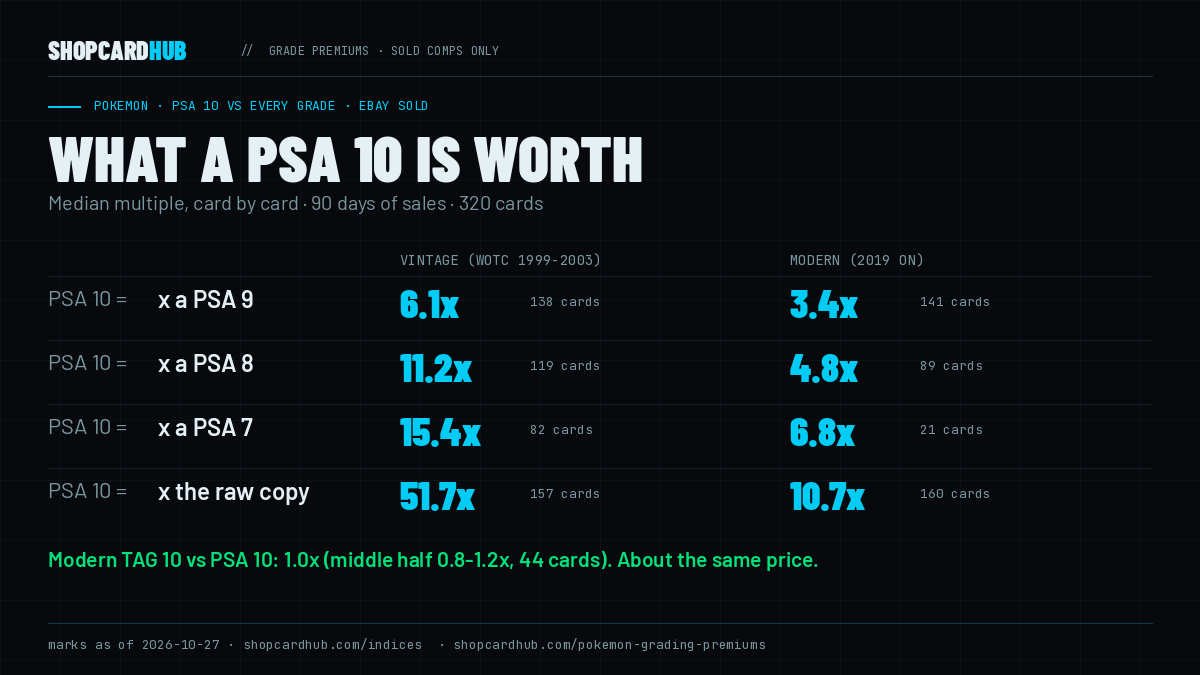
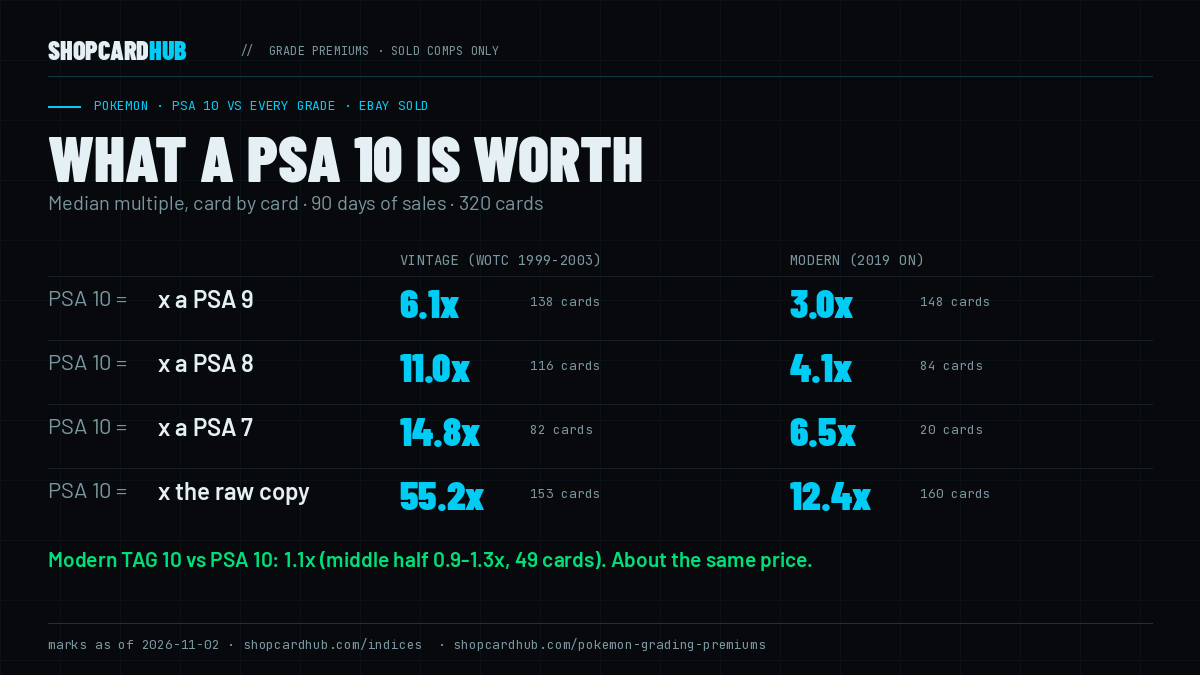
desk Nov 2: Bangers board R9 fix (iw-2026-11-02-1), PSA Value reopened on /psa-grading-guide (KB P60), grade premiums Nov 2 refresh (Data Desk), calls trending re-read
- bowman-bangers: an off-watchlist row takes its own feed cardType or none (no 'chrome-auto'
  default); only chrome-auto/chrome-base rows render and count (11 -> 10). Roman Anthony
  Sapphire no longer prints as a 1st Bowman Chrome Auto. No figure touched.
- psa-grading-guide: Value reopened Oct 29 2026 at $39.99 ($500 cap, ~90-100 bd, per ICv2
  Oct 29 2026); Value Bulk/Plus/Max still paused; Standard/Priority turnaround = PSA's Oct 2026
  estimates. Five sentences/cells + keywords meta.
- data/grade-premiums.json -> asOf 2026-11-02 (Data Desk Nov 2 aggregates, as filed);
  pokemon-grading-premiums.html rebuilt by build-grade-premiums.mjs; og/grade-premiums.png by
  make.py grades; pull.py TODAY = date.today(). The patch's make.py Data Desk image kinds are
  queued (Wed Nov 4 weekly), not in this commit.
- data/calls.json: two trending reads (Monday lane local re-read, Oct 29 marks); no
  projection, grade or finalize field changed.
- data/pipeline.json: iw-2026-11-02-1..4 ledgered (1 applied, 3 queued); price-exceptions
  queued, price-unread ruled, audit-2026-09-11-5 closed.

Gates (fresh clone, this tree): audit-prices 0/51 · audit-site 0/3 · audit-terminal 0/1 =
the Monday lane's 51/3/1 baseline; no WARN delta. Deploys (site HTML).

Task-key: desk-2026-11-02
Authority: CoS desk (LANE-RULES R1/R5/R6; IW iw-2026-11-02-1; KB GAPS P60 routed to this desk by the Nov 1 review; Data Desk handoff 2026-11-02)
[…]

diff --git a/pokemon-grading-premiums.html b/pokemon-grading-premiums.html
@@ -6,23 +6,23 @@
   <meta name="view-transition" content="same-origin">
   <link rel="icon" type="image/svg+xml" href="/favicon.svg">
   <title>Is Your Pokémon Card Worth Grading? PSA 10 vs PSA 9, 8, 7, Raw and TAG 10 — Dated Sold Data | ShopCardHub</title>
-  <meta name="description" content="What a PSA 10 sells for against every other grade, from eBay sales as of October 27, 2026: vintage PSA 10s ran 51.7× raw and 6.1× a PSA 9; modern 10.7× raw and 3.4× a PSA 9.">
+  <meta name="description" content="What a PSA 10 sells for against every other grade, from eBay sales as of November 2, 2026: vintage PSA 10s ran 55.2× raw and 6.1× a PSA 9; modern 12.4× raw and 3.0× a PSA 9.">
   <link rel="canonical" href="https://www.shopcardhub.com/pokemon-grading-premiums">
   <meta property="og:type" content="website">
   <meta property="og:title" content="Is Your Pokémon Card Worth Grading? PSA 10 vs PSA 9, 8, 7, Raw and TAG 10 — Dated Sold Data">
-  <meta property="og:description" content="What a PSA 10 sells for against every other grade, from eBay sales as of October 27, 2026: vintage PSA 10s ran 51.7× raw and 6.1× a PSA 9; modern 10.7× raw and 3.4× a PSA 9.">
+  <meta property="og:description" content="What a PSA 10 sells for against every other grade, from eBay sales as of November 2, 2026: vintage PSA 10s ran 55.2× raw and 6.1× a PSA 9; modern 12.4× raw and 3.0× a PSA 9.">
   <meta property="og:url" content="https://www.shopcardhub.com/pokemon-grading-premiums">
   <meta property="og:site_name" content="ShopCardHub">
   <meta name="twitter:card" content="summary_large_image">
   <meta name="twitter:site" content="@shopcardhub">
-  <meta property="og:image" content="https://www.shopcardhub.com/og/grade-premiums.png?v=20261027">
+  <meta property="og:image" content="https://www.shopcardhub.com/og/grade-premiums.png?v=20261102">
   <meta property="og:image:width" content="1200">
   <meta property="og:image:height" content="675">
-  <meta name="twitter:image" content="https://www.shopcardhub.com/og/grade-premiums.png?v=20261027">
+  <meta name="twitter:image" content="https://www.shopcardhub.com/og/grade-premiums.png?v=20261102">
   <meta name='impact-site-verification' value='74b130d5-209e-4785-b837-d16afbf60555'>
   <meta name='impact-site-verification' value='b16c5bca-431e-4f3c-be15-6c3a1006e379'>
   <script type="application/ld+json">
-  {"@context":"https://schema.org","@type":"Dataset","name":"Pokémon card grade premiums: PSA 10 vs PSA 9, 8, 7, 5, raw and TAG 10","description":"What a PSA 10 sells for against every other grade, from eBay sales as of October 27, 2026: vintage PSA 10s ran 51.7× raw and 6.1× a PSA 9; modern 10.7× raw and 3.4× a PSA 9.","url":"https://www.shopcardhub.com/pokemon-grading-premiums","dateModified":"2026-10-27","creator":{"@type":"Organization","name":"ShopCardHub","url":"https://www.shopcardhub.com"},"variableMeasured":["PSA 10 to PSA 9 price multiple","PSA 10 to raw price multiple","TAG 10 to PSA 10 price multiple"],"measurementTechnique":"Random sample of 160 cards per era from the 34 Pokémon sets ShopCardHub indexes (cards with a PSA 10 sold mark). For each card: median of its last 90 days of sales in each grade, counted only when the sale title names that PSA grade (TAG 10 rows titled TAG; raw = Ungraded rows with no grading company in the title); a grade needs at least 2 sales. The multiple is computed per card (PSA 10 median / other grade median), then we report the median multiple across cards and the middle half (25th–75th percentile). Lots, proxies, customs and reprints are dropped; WOTC sets are split by edition (1st Edition / Shadowless / Unlimited). Vintage = 1999–2003 WOTC sets; modern = 2019 onward. Grading fees, shipping and selling fees are not included.","isAccessibleForFree":true}
+  {"@context":"https://schema.org","@type":"Dataset","name":"Pokémon card grade premiums: PSA 10 vs PSA 9, 8, 7, 5, raw and TAG 10","description":"What a PSA 10 sells for against every other grade, from eBay sales as of November 2, 2026: vintage PSA 10s ran 55.2× raw and 6.1× a PSA 9; modern 12.4× raw and 3.0× a PSA 9.","url":"https://www.shopcardhub.com/pokemon-grading-premiums","dateModified":"2026-11-02","creator":{"@type":"Organization","name":"ShopCardHub","url":"https://www.shopcardhub.com"},"variableMeasured":["PSA 10 to PSA 9 price multiple","PSA 10 to raw price multiple","TAG 10 to PSA 10 price multiple"],"measurementTechnique":"Random sample of 160 cards per era from the 34 Pokémon sets ShopCardHub indexes (cards with a PSA 10 sold mark). For each card: median of its last 90 days of sales in each grade, counted only when the sale title names that PSA grade (TAG 10 rows titled TAG; raw = Ungraded rows with no grading company in the title); a grade needs at least 2 sales. The multiple is computed per card (PSA 10 median / other grade median), then we report the median multiple across cards and the middle half (25th–75th percentile). Lots, proxies, customs and reprints are dropped; WOTC sets are split by edition (1st Edition / Shadowless / Unlimited). Vintage = 1999–2003 WOTC sets; modern = 2019 onward. Grading fees, shipping and selling fees are not included.","isAccessibleForFree":true}
   </script>
 <style>
     *, *::before, *::after { box-sizing: border-box; margin: 0; padding: 0; }
@@ -979,9 +979,9 @@ section{animation:wire-pulse 5s ease-in-out infinite;}
 
 <section class="hero" style="border-top:none; padding-bottom:0;">
   <div class="container">
-    <div class="hero-eyebrow">Grading &middot; Sold Data &middot; October 27, 2026</div>
+    <div class="hero-eyebrow">Grading &middot; Sold Data &middot; November 2, 2026</div>
     <h1>Is Your Pok&eacute;mon Card<br><em>Worth Grading?</em></h1>
-    <p class="hero-sub gp-answer" id="answer">As of October 27, 2026, a PSA 10 vintage Pokémon card (WOTC, 1999–2003) sold for a median <b>51.7× its raw price</b> and <b>6.1× a PSA 9</b>; a modern card's PSA 10 sold for <b>10.7× raw</b> and <b>3.4× a PSA 9</b>. TAG 10s on modern cards sold for about the same as PSA 10s (median 1.0×). Based on 90 days of eBay sales of 320 cards.</p>
+    <p class="hero-sub gp-answer" id="answer">As of November 2, 2026, a PSA 10 vintage Pokémon card (WOTC, 1999–2003) sold for a median <b>55.2× its raw price</b> and <b>6.1× a PSA 9</b>; a modern card's PSA 10 sold for <b>12.4× raw</b> and <b>3.0× a PSA 9</b>. TAG 10s on modern cards sold for about the same as PSA 10s (median 1.1×). Based on 90 days of eBay sales of 320 cards.</p>
     <p class="gp-cta"><a href="/should-i-grade-my-pokemon-card">Check your own card: how often it has to come back a PSA 10 for grading to pay &rarr;</a></p>
   </div>
 </section>
@@ -1038,22 +1038,22 @@ section{animation:wire-pulse 5s ease-in-out infinite;}
   <section style="border-top:none; padding-top:0;">
     <div class="section-eyebrow green">The table</div>
     <h2>What a PSA 10 Is Worth Against Every Other Grade</h2>
-    <p class="section-intro">Read across: on a typical vintage card, a PSA 10 sold for 11.2× what the same card sold for in a PSA 8. Each multiple is worked out card by card, then we show the middle card and the middle half of the range, because a few huge cards would wreck an average.</p>
+    <p class="section-intro">Read across: on a typical vintage card, a PSA 10 sold for 11.0× what the same card sold for in a PSA 8. Each multiple is worked out card by card, then we show the middle card and the middle half of the range, because a few huge cards would wreck an average.</p>
     <div class="gp-wrap"><table class="gp-tbl"><caption>A PSA 10 sells for this many times…</caption>
 <thead><tr><th scope="col">…a copy in</th><th scope="col">Vintage (WOTC, 1999–2003)</th><th scope="col">Modern (2019 onward)</th></tr></thead>
-<tbody><tr><th scope="row">PSA 9</th><td><b>6.1×</b><span class="gp-rng">middle half 4.5×–9.1×</span><span class="gp-n">138 cards</span></td><td><b>3.4×</b><span class="gp-rng">middle half 2.7×–5.1×</span><span class="gp-n">141 cards</span></td></tr><tr><th scope="row">PSA 8</th><td><b>11.2×</b><span class="gp-rng">middle half 8.5×–16.6×</span><span class="gp-n">119 cards</span></td><td><b>4.8×</b><span class="gp-rng">middle half 3.4×–7.1×</span><span class="gp-n">89 cards</span></td></tr><tr><th scope="row">PSA 7</th><td><b>15.4×</b><span class="gp-rng">middle half 10.3×–28.1×</span><span class="gp-n">82 cards</span></td><td><b>6.8×</b><span class="gp-rng">middle half 4.4×–15.9×</span><span class="gp-n">21 cards</span></td></tr><tr><th scope="row">PSA 5</th><td><b>30.6×</b><span class="gp-rng">middle half 17.3×–72.3×</span><span class="gp-n">30 cards</span></td><td class="gp-na">too few sales (1)</td></tr><tr><th scope="row">Raw (ungraded)</th><td><b>51.7×</b><span class="gp-rng">middle half 29.7×–79.6×</span><span class="gp-n">157 cards</span></td><td><b>10.7×</b><span class="gp-rng">middle half 5.4×–26.0×</span><span class="gp-n">160 cards</span></td></tr></tbody></table></div>
+<tbody><tr><th scope="row">PSA 9</th><td><b>6.1×</b><span class="gp-rng">middle half 4.2×–9.0×</span><span class="gp-n">138 cards</span></td><td><b>3.0×</b><span class="gp-rng">middle half 2.3×–4.3×</span><span class="gp-n">148 cards</span></td></tr><tr><th scope="row">PSA 8</th><td><b>11.0×</b><span class="gp-rng">middle half 7.3×–15.8×</span><span class="gp-n">116 cards</span></td><td><b>4.1×</b><span class="gp-rng">middle half 3.3×–6.8×</span><span class="gp-n">84 cards</span></td></tr><tr><th scope="row">PSA 7</th><td><b>14.8×</b><span class="gp-rng">middle half 9.7×–24.3×</span><span class="gp-n">82 cards</span></td><td><b>6.5×</b><span class="gp-rng">middle half 4.6×–8.7×</span><span class="gp-n">20 cards</span></td></tr><tr><th scope="row">PSA 5</th><td><b>25.2×</b><span class="gp-rng">middle half 14.3×–41.0×</span><span class="gp-n">26 cards</span></td><td class="gp-na">too few sales (1)</td></tr><tr><th scope="row">Raw (ungraded)</th><td><b>55.2×</b><span class="gp-rng">middle half 32.1×–84.0×</span><span class="gp-n">153 cards</span></td><td><b>12.4×</b><span class="gp-rng">middle half 6.2×–21.6×</span><span class="gp-n">160 cards</span></td></tr></tbody></table></div>
   </section>
   <section>
     <div class="section-eyebrow">What it says</div>
     <h2>Old Cards: the Grade Is the Price. New Cards: You're Paying for the Card.</h2>
-    <p class="section-intro">On vintage cards the gap between grades is steep: a PSA 9 is a fraction of a 10 and a raw copy is a small fraction. On modern cards the whole ladder is flatter, so a lower grade gives up much less. The spread is lopsided in both eras: on vintage, the average PSA 10 multiple over raw is 66.5× against a middle card of 51.7× (skew 4.76), so a handful of cards with huge premiums pull the average up. Look at the median, not the mean.</p>
-    <p class="section-intro"><b>TAG 10 vs PSA 10 (modern):</b> on the 44 modern cards with TAG 10 and PSA 10 sales in the window, the TAG 10 sold for a median 1.0× the PSA 10 (middle half 0.8×–1.2×); 24 of 44 sold at or above it. Vintage TAG 10 sales are still too few to compare.</p>
+    <p class="section-intro">On vintage cards the gap between grades is steep: a PSA 9 is a fraction of a 10 and a raw copy is a small fraction. On modern cards the whole ladder is flatter, so a lower grade gives up much less. The spread is lopsided in both eras: on vintage, the average PSA 10 multiple over raw is 67.8× against a middle card of 55.2× (skew 6.36), so a handful of cards with huge premiums pull the average up. Look at the median, not the mean.</p>
+    <p class="section-intro"><b>TAG 10 vs PSA 10 (modern):</b> on the 49 modern cards with TAG 10 and PSA 10 sales in the window, the TAG 10 sold for a median 1.1× the PSA 10 (middle half 0.9×–1.3×); 31 of 49 sold at or above it. Vintage TAG 10 sales are still too few to compare.</p>
     <p class="section-intro">This is what slabs sold for, not advice. Grading fees, shipping, time and the odds of getting a 10 are not in these numbers. To check one card, run it through the <a href="/should-i-grade-my-pokemon-card">grade-or-sell break-even calculator</a>: it uses that card&rsquo;s own Raw, PSA 9, PSA 10 and TAG 10 sales and your grading cost.</p>
   </section>
   <section>
     <div class="section-eyebrow">Method</div>
     <h2>How We Counted</h2>
-    <p class="section-intro">Random sample of 160 cards per era from the 34 Pokémon sets ShopCardHub indexes (cards with a PSA 10 sold mark). For each card: median of its last 90 days of sales in each grade, counted only when the sale title names that PSA grade (TAG 10 rows titled TAG; raw = Ungraded rows with no grading company in the title); a grade needs at least 2 sales. The multiple is computed per card (PSA 10 median / other grade median), then we report the median multiple across cards and the middle half (25th–75th percentile). Lots, proxies, customs and reprints are dropped; WOTC sets are split by edition (1st Edition / Shadowless / Unlimited). Vintage = 1999–2003 WOTC sets; modern = 2019 onward. Grading fees, shipping and selling fees are not included. Source: eBay completed sales read on PriceCharting (graded tabs + Ungraded), titles checked for the grade and never stored. Read October 27, 2026.</p>
+    <p class="section-intro">Random sample of 160 cards per era from the 34 Pokémon sets ShopCardHub indexes (cards with a PSA 10 sold mark). For each card: median of its last 90 days of sales in each grade, counted only when the sale title names that PSA grade (TAG 10 rows titled TAG; raw = Ungraded rows with no grading company in the title); a grade needs at least 2 sales. The multiple is computed per card (PSA 10 median / other grade median), then we report the median multiple across cards and the middle half (25th–75th percentile). Lots, proxies, customs and reprints are dropped; WOTC sets are split by edition (1st Edition / Shadowless / Unlimited). Vintage = 1999–2003 WOTC sets; modern = 2019 onward. Grading fees, shipping and selling fees are not included. Source: eBay completed sales read on PriceCharting (graded tabs + Ungraded), titles checked for the grade and never stored. Read November 2, 2026.</p>
   </section>
 </div>
 

diff --git a/psa-grading-guide.html b/psa-grading-guide.html
@@ -7,7 +7,7 @@
   <link rel="icon" type="image/svg+xml" href="/favicon.svg">
   <title>PSA Grading Guide 2026 — Cost, ROI & Which Cards Are Worth It | ShopCardHub</title>
   <meta name="description" content="PSA grading costs in 2026, updated after the February 10 price increase. Every tier, real turnaround times, hidden fees, and the ROI math on whether your card is actually worth submitting.">
-  <meta name="keywords" content="PSA grading cost 2026, PSA grading price increase, PSA value tiers paused 2026, PSA standard tier $59.99, is PSA grading worth it, PSA 10 premium, card grading ROI">
+  <meta name="keywords" content="PSA grading cost 2026, PSA grading price increase, PSA Value tier reopened 2026, PSA standard tier $59.99, is PSA grading worth it, PSA 10 premium, card grading ROI">
   <link rel="canonical" href="https://www.shopcardhub.com/psa-grading-guide">
   <meta property="og:type" content="article">
   <meta property="og:title" content="PSA Grading Guide 2026 — Cost, ROI & Which Cards Are Worth It">
@@ -1022,7 +1022,7 @@ section{animation:wire-pulse 5s ease-in-out infinite;}
   <section style="border-top:none; padding-top:0;">
     <div class="section-eyebrow">2026 Pricing</div>
     <h2>PSA Grading Cost — Every Tier</h2>
-    <p class="section-intro">Prices are per card as posted on psacard.com on September 25, 2026, not including shipping. Add $10–$28 each way for shipping, plus supplies. The all-in cost is always higher than the tier price alone. <strong>The Value tiers ($24.99–$64.99) have been paused since June 2, 2026</strong>, so Standard at $59.99 is the cheapest way into a PSA slab today.</p>
+    <p class="section-intro">Prices are per card as posted on psacard.com on September 25, 2026, not including shipping. Add $10–$28 each way for shipping, plus supplies. The all-in cost is always higher than the tier price alone. <strong>PSA's Value tier reopened on October 29, 2026 at $39.99 a card</strong> (up to $500 declared value, about 90–100 business days, per ICv2, Oct 29 2026), so for a card under $500 it is the cheapest way into a PSA slab today. Value Bulk, Value Plus and Value Max are still paused (since June 2, 2026, no date).</p>
 
     <div class="roi-table-wrap">
       <table class="roi-table">
@@ -1030,9 +1030,10 @@ section{animation:wire-pulse 5s ease-in-out infinite;}
           <tr><th>Tier</th><th>Cost / Card</th><th>Turnaround</th><th>Max Declared Value</th><th>Best For</th><th>Verdict</th></tr>
         </thead>
         <tbody>
-          <tr><td><span class="roi-name">Value / Value Bulk</span><span class="roi-sub">Paused since June 2, 2026 · last posted $24.99–$64.99</span></td><td><span class="roi-price" style="color:var(--text-dim);">paused</span></td><td><span class="roi-sub">—</span></td><td><span class="roi-sub">$500/card</span></td><td><span class="roi-sub">Not accepting submissions; no reopening date published</span></td><td><span class="verdict-tag v-pass">Closed</span></td></tr>
-          <tr><td><span class="roi-name">Standard</span><span class="roi-sub">No minimum · cheapest open tier</span></td><td><span class="roi-price">$59.99</span></td><td><span class="roi-sub">90–100 business days</span></td><td><span class="roi-sub">$1,000/card</span></td><td><span class="roi-sub">Most collectors — the default now that Value is closed</span></td><td><span class="verdict-tag v-buy">Most Popular</span></td></tr>
-          <tr><td><span class="roi-name">Priority</span><span class="roi-sub">No minimum</span></td><td><span class="roi-price">$79.99</span></td><td><span class="roi-sub">70–80 business days</span></td><td><span class="roi-sub">$1,500/card</span></td><td><span class="roi-sub">$20 buys ~20 business days and a higher cap</span></td><td><span class="verdict-tag v-watch">Situational</span></td></tr>
+          <tr><td><span class="roi-name">Value</span><span class="roi-sub">Open again since Oct 29, 2026 (ICv2, Oct 29 2026)</span></td><td><span class="roi-price">$39.99</span></td><td><span class="roi-sub">~90–100 business days (PSA's estimate, Oct 2026)</span></td><td><span class="roi-sub">$500/card</span></td><td><span class="roi-sub">Cards worth under $500</span></td><td><span class="verdict-tag v-buy">Open</span></td></tr>
+          <tr><td><span class="roi-name">Value Bulk / Plus / Max</span><span class="roi-sub">Paused since June 2, 2026 · last posted $24.99 / $49.99 / $64.99</span></td><td><span class="roi-price" style="color:var(--text-dim);">paused</span></td><td><span class="roi-sub">—</span></td><td><span class="roi-sub">—</span></td><td><span class="roi-sub">Not accepting submissions; no reopening date published</span></td><td><span class="verdict-tag v-pass">Closed</span></td></tr>
+          <tr><td><span class="roi-name">Standard</span><span class="roi-sub">No minimum</span></td><td><span class="roi-price">$59.99</span></td><td><span class="roi-sub">70–80 business days (PSA's estimate, Oct 2026)</span></td><td><span class="roi-sub">$1,000/card</span></td><td><span class="roi-sub">Cards worth $500–$1,000, or anything over Value's $500 cap</span></td><td><span class="verdict-tag v-buy">Most Popular</span></td></tr>
+          <tr><td><span class="roi-name">Priority</span><span class="roi-sub">No minimum</span></td><td><span class="roi-price">$79.99</span></td><td><span class="roi-sub">50–60 business days (PSA's estimate, Oct 2026)</span></td><td><span class="roi-sub">$1,500/card</span></td><td><span class="roi-sub">$20 buys ~20 business days and a higher cap</span></td><td><span class="verdict-tag v-watch">Situational</span></td></tr>
           <tr><td><span class="roi-name">Express</span><span class="roi-sub">No minimum</span></td><td><span class="roi-price">$199</span></td><td><span class="roi-sub">20–30 business days</span></td><td><span class="roi-sub">$2,500/card</span></td><td><span class="roi-sub">Time-sensitive market windows</span></td><td><span class="verdict-tag v-watch">Situational</span></td></tr>
           <tr><td><span class="roi-name">Super Express</span><span class="roi-sub">No minimum</span></td><td><span class="roi-price">$349</span></td><td><span class="roi-sub">10–15 business days</span></td><td><span class="roi-sub">$5,000/card</span></td><td><span class="roi-sub">High-value cards needing urgent return</span></td><td><span class="verdict-tag v-pass">Premium</span></td></tr>
           <tr><td><span class="roi-name">Premier</span><span class="roi-sub">No minimum</span></td><td><span class="roi-price">$599</span></td><td><span class="roi-sub">7–10 business days</span></td><td><span class="roi-sub">$10,000/card</span></td><td><span class="roi-sub">Five-figure cards</span></td><td><span class="verdict-tag v-pass">VIP</span></td></tr>
@@ -1124,7 +1125,7 @@ section{animation:wire-pulse 5s ease-in-out infinite;}
 
     <div class="steps">
       <div class="step"><div class="step-num">01</div><div class="step-body"><div class="step-title">Pre-grade your cards honestly</div><div class="step-desc">Under bright light, examine corners, edges, surface, and centering. Only submit cards where you genuinely believe a PSA 9 or 10 is likely. <strong>If in doubt, don't submit.</strong> A PSA 8 on a modern card is often worth less than raw.</div></div></div>
-      <div class="step"><div class="step-num">02</div><div class="step-body"><div class="step-title">Create your PSA account and choose your tier</div><div class="step-desc">Go to <strong>psacard.com/submissioncenter</strong>. For most collectors, <strong>Standard ($59.99)</strong> is the right call — the Value and Value Bulk tiers have been paused since June 2, 2026 with no reopening date. <strong>Priority ($79.99)</strong> buys roughly 20 business days and a $1,500 cap. Avoid Express and above unless the card genuinely demands speed.</div></div></div>
+      <div class="step"><div class="step-num">02</div><div class="step-body"><div class="step-title">Create your PSA account and choose your tier</div><div class="step-desc">Go to <strong>psacard.com/submissioncenter</strong>. For a card worth under $500, <strong>Value ($39.99)</strong> reopened on October 29, 2026 (about 90–100 business days); above $500, <strong>Standard ($59.99)</strong> is the next tier. Value Bulk, Value Plus and Value Max are still paused. <strong>Priority ($79.99)</strong> buys roughly 20 business days and a $1,500 cap. Avoid Express and above unless the card genuinely demands speed.</div></div></div>
       <div class="step"><div class="step-num">03</div><div class="step-body"><div class="step-title">Fill out your submission form online</div><div class="step-desc">Log each card individually. Set your declared value conservatively — this is for insurance only. Print the form and include it with your submission.</div></div></div>
       <div class="step"><div class="step-num">04</div><div class="step-body"><div class="step-title">Pack your cards correctly</div><div class="step-desc">Each card in a <strong>card saver</strong> (not a rigid top loader — PSA prefers card savers). Pack in bubble wrap. Ship via FedEx or USPS with tracking and insurance. <strong>Insure for the raw value of every card in the submission.</strong></div></div></div>
       <div class="step"><div class="step-num">05</div><div class="step-body"><div class="step-title">Track and wait</div><div class="step-desc">PSA's tracker: Received → Research & ID → Grading → Assembly → QC → Shipped. Standard typically shows movement at 12–16 weeks. Add 3–4 weeks intake. Realistic total wait: <strong>5–7 months at Standard.</strong></div></div></div>
@@ -1161,7 +1162,7 @@ section{animation:wire-pulse 5s ease-in-out infinite;}
   </section>
 
   <div class="disclosure" style="margin-bottom:48px;">
-    <strong>Affiliate Disclosure:</strong> As an Amazon Associate, ShopCardHub earns from qualifying purchases made through links on this page. PSA tier fees are PSA's published prices as of September 25, 2026 (Value tiers paused since June 2, 2026); card-value figures are estimates based on recent sold comps as of August 2026. Prices change daily &mdash; verify current pricing and sold comps before buying. Not financial advice.
+    <strong>Affiliate Disclosure:</strong> As an Amazon Associate, ShopCardHub earns from qualifying purchases made through links on this page. PSA tier fees are PSA's published prices as of September 25, 2026 (Value reopened Oct 29, 2026 at $39.99, per ICv2; Value Bulk, Plus and Max paused since June 2, 2026); card-value figures are estimates based on recent sold comps as of August 2026. Prices change daily &mdash; verify current pricing and sold comps before buying. Not financial advice.
   </div>
 
 </div>

diff --git a/bowman-bangers.html b/bowman-bangers.html
@@ -2514,14 +2514,15 @@ section{animation:wire-pulse 5s ease-in-out infinite;}
           return {
             label: c.label || c.key,
             slug: c.slug || m.slug || null,
-            cardType: m.cardType || 'chrome-auto',
+            // Nov 2 2026 (desk, IW iw-2026-11-02-1, R9): no default type — an off-watchlist row takes the feed's own type or none.
+            cardType: m.cardType || c.cardType || null,
             rank: m.rank || null,
             last: c.last, roc30: c.roc30, points: pts,
             building: pts < MIN_HISTORY,
             signal: c.signal || 'HOLD',
             search: (c.label || '').toLowerCase()
           };
-        }).sort(function(a, b){
+        }).filter(function(r){ return r.cardType === 'chrome-auto' || r.cardType === 'chrome-base'; }).sort(function(a, b){
           if (a.rank && b.rank) return a.rank - b.rank;
           if (a.rank) return -1;
           if (b.rank) return 1;

diff --git a/tools/grade-premiums/pull.py b/tools/grade-premiums/pull.py
@@ -4,7 +4,7 @@
 import json,glob,re,time,random,sys,urllib.request,statistics as st,datetime
 VINT={'bs99','bs1e','bssl','ju99','ju1e','fo99','fo1e','tr00','tr1e','ng00','ng1e','nd02','nd1e','ndc01','ndc1e','nr01','nr1e','aq03','sk03'}
 FIRST={'bs1e','ju1e','fo1e','tr1e','ng1e','nd1e','ndc1e','nr1e'}
-TODAY=datetime.date(2026,10,27)
+TODAY=datetime.date.today()
 cards=[]
 for gp in glob.glob('data/cards/g-*.json'):
     tk=gp.split('g-')[1][:-5]; g=json.load(open(gp)); paths=g.get('paths') or {}
